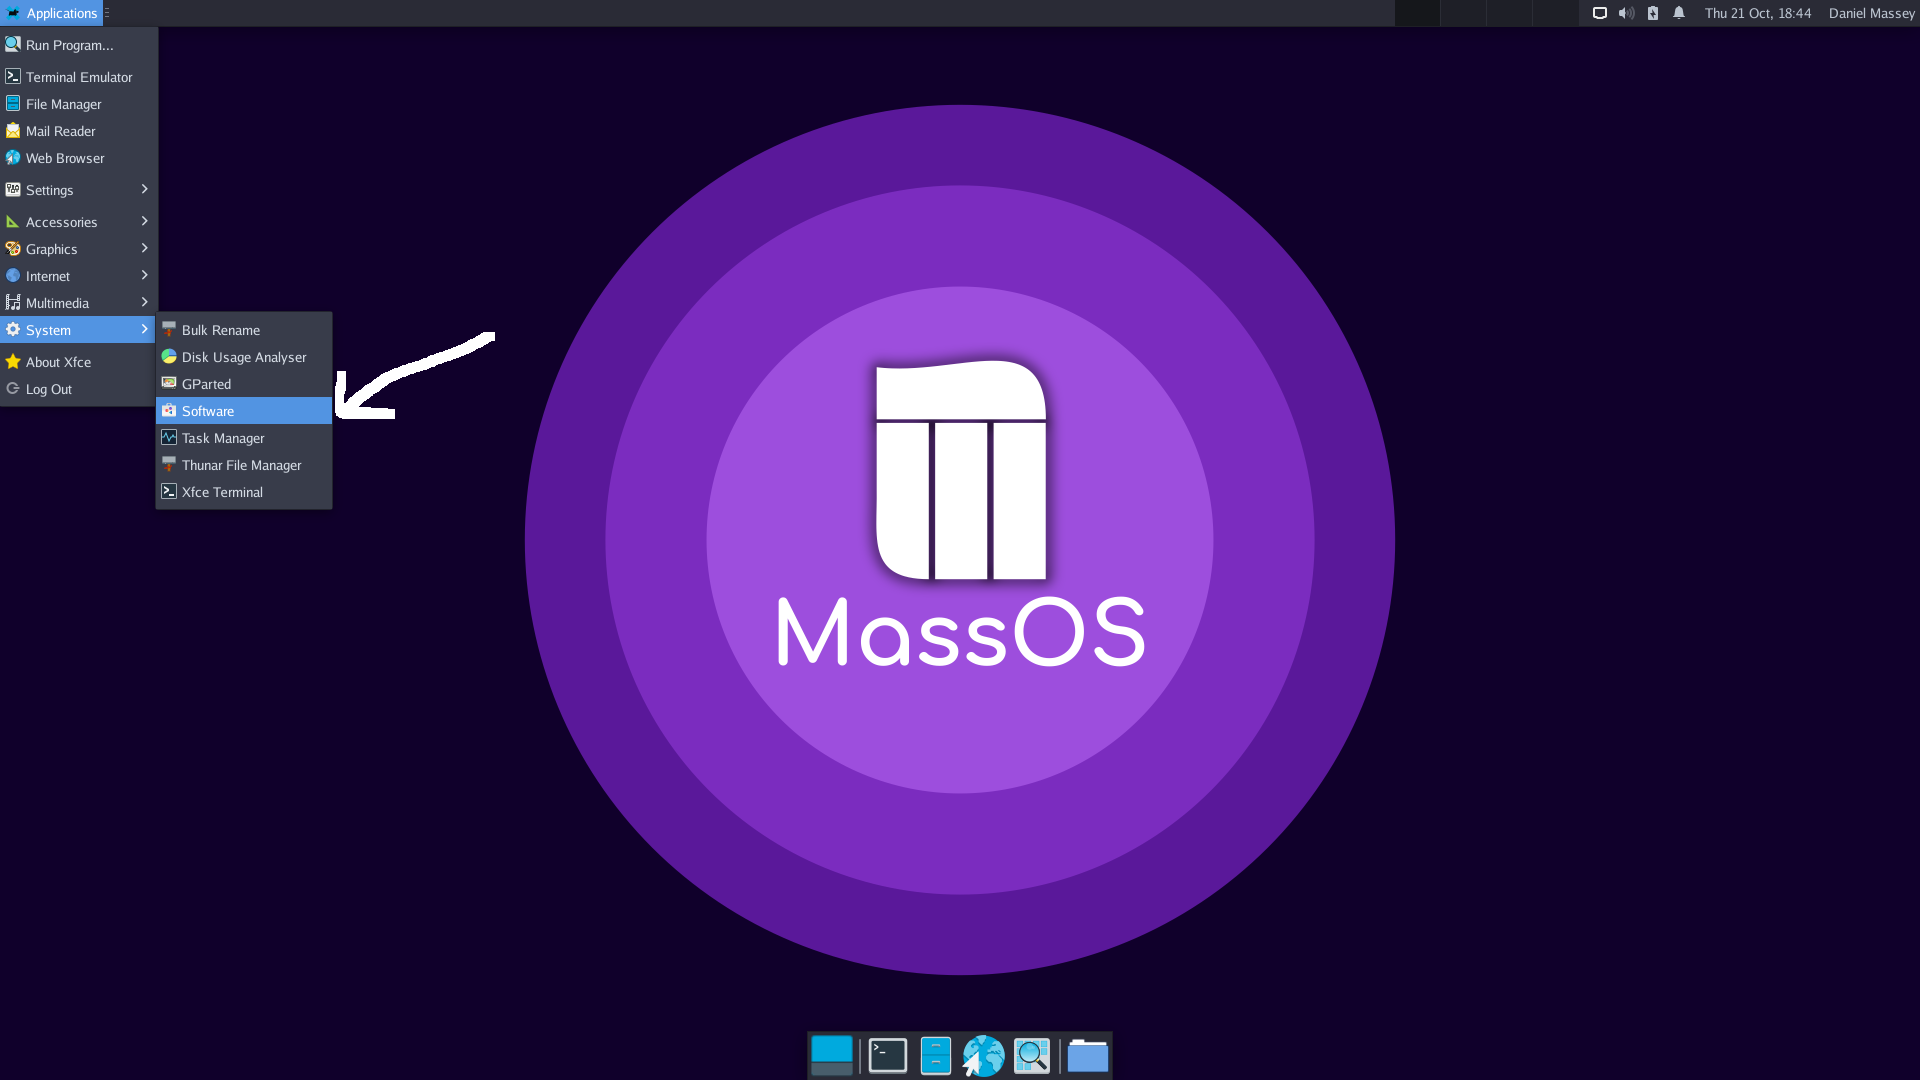
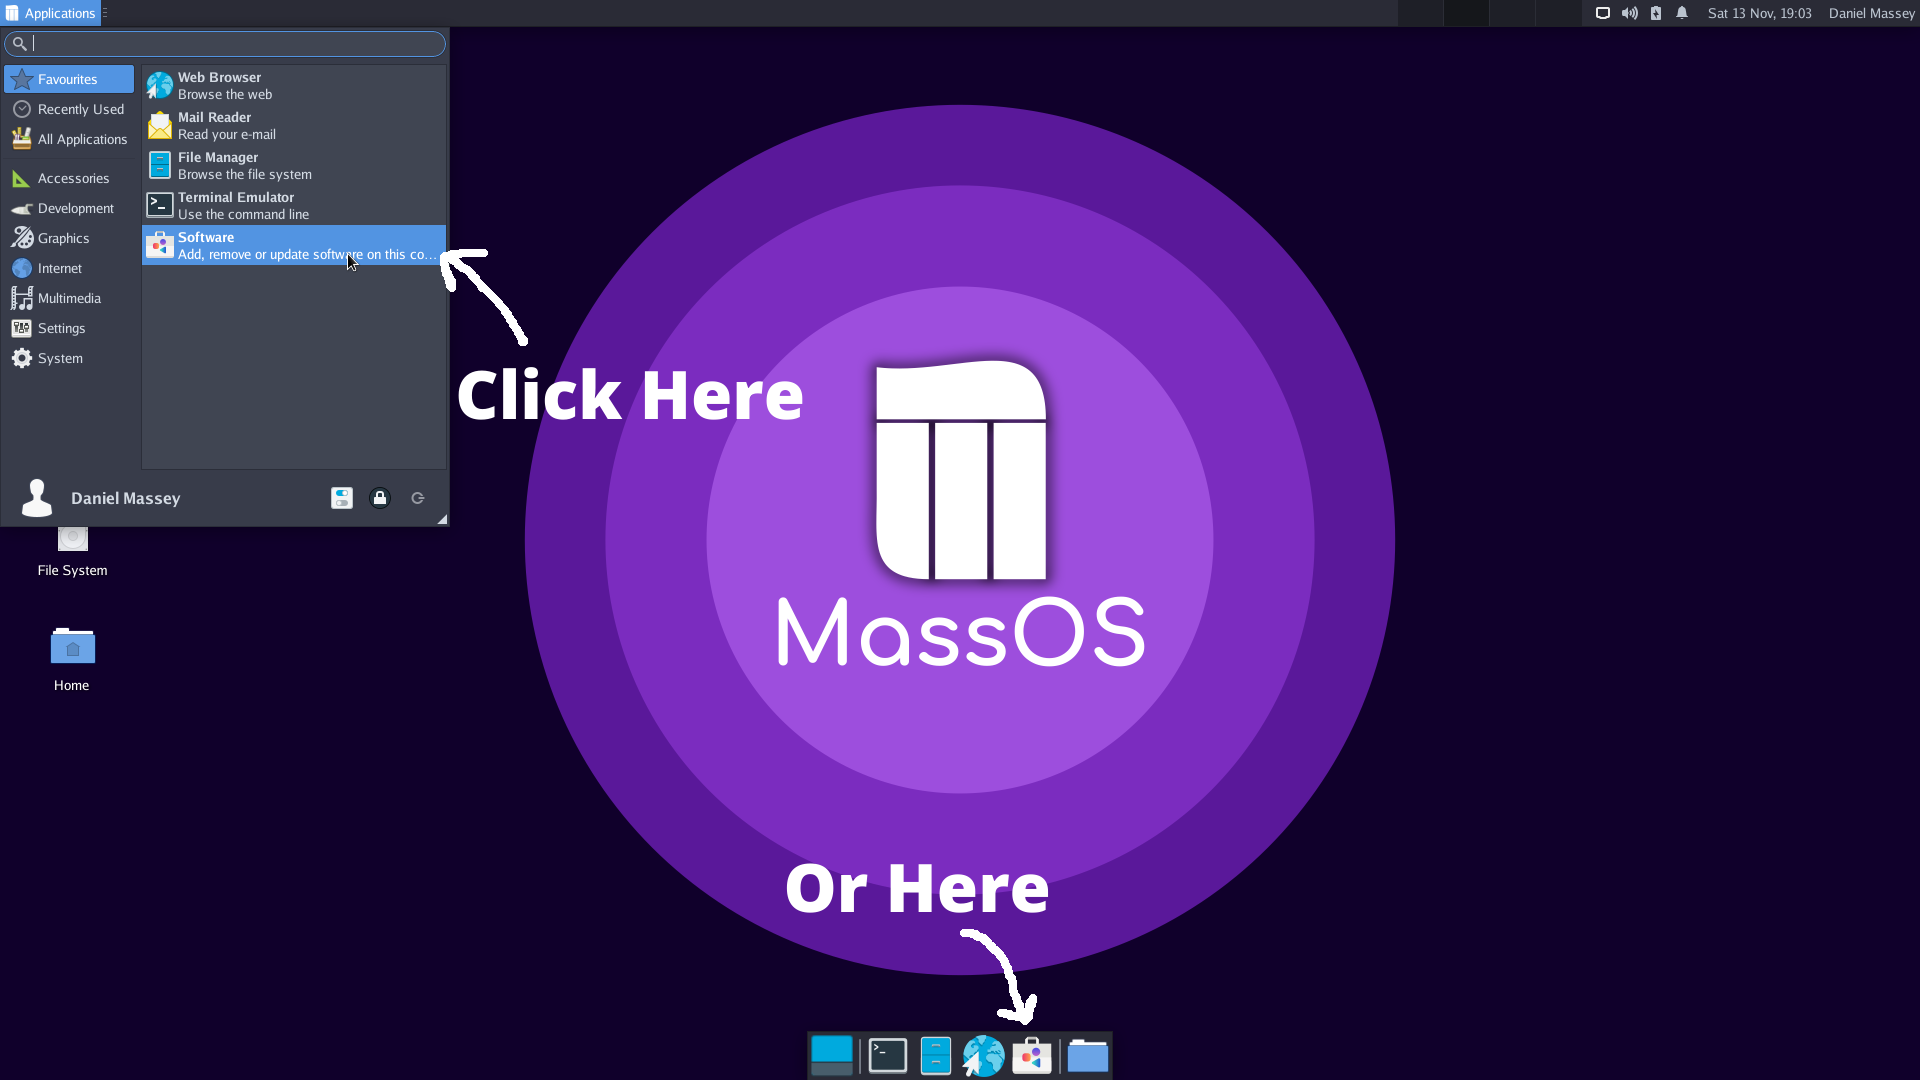
Update screenshots

diff --git a/postinst.md b/postinst.md
@@ -5,7 +5,7 @@ MassOS has the Flatpak package manager built in. Flatpak provides a nice way of 
 
 There are two ways you can install Flatpak apps on MassOS. You can either do so from the GUI software center, or from the terminal.
 ## Installing Flatpak software from the GUI software center
-The software center on MassOS is called "Software". You can launch it from the apps menu or search for it with the Xfce appfinder:
+The software center on MassOS can be launched from the applications menu, or from the panel at the bottom of the screen:
 ![](software1.png)
 Once opened, the front page of the store contains some recommended apps. You can browse through the categories, or click the search button at the top left hand corner:
 ![](software2.png)
